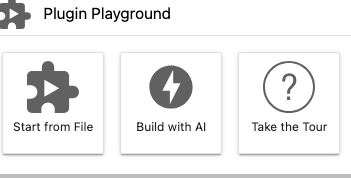
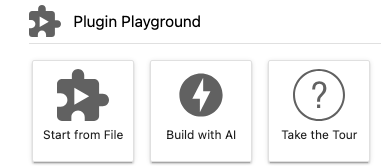
update launcher snapshot

diff --git a/ui-tests/tests/readme-screenshots.spec.ts b/ui-tests/tests/readme-screenshots.spec.ts
@@ -338,10 +338,10 @@ test('generate README screenshots', async ({ page }) => {
       [launcherHeader, launcherFirstCard, launcherLastCardLabel],
       'launcher-plugin-playground-tile.png',
       {
-        leftPadding: 2,
+        leftPadding: 32,
         rightPadding: 16,
-        topPadding: 4,
-        bottomPadding: 24
+        topPadding: 12,
+        bottomPadding: 4
       }
     );
   } else {
